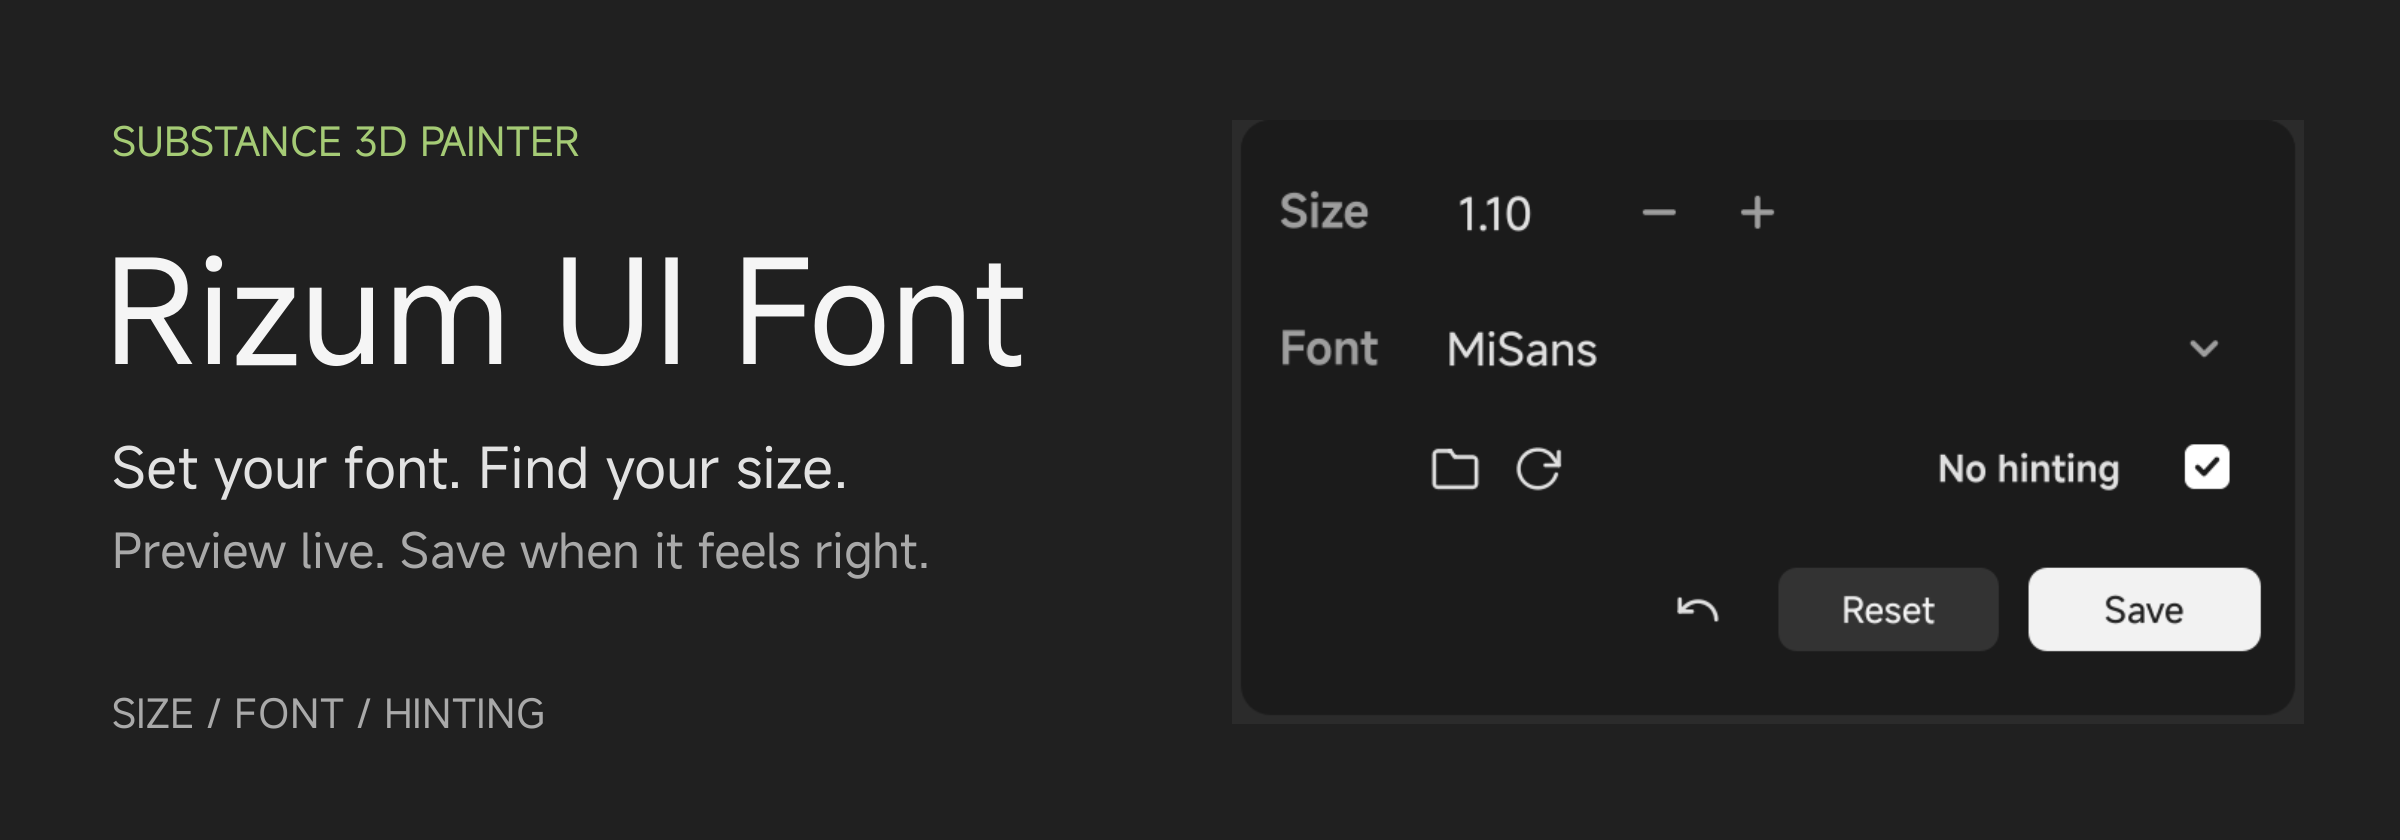
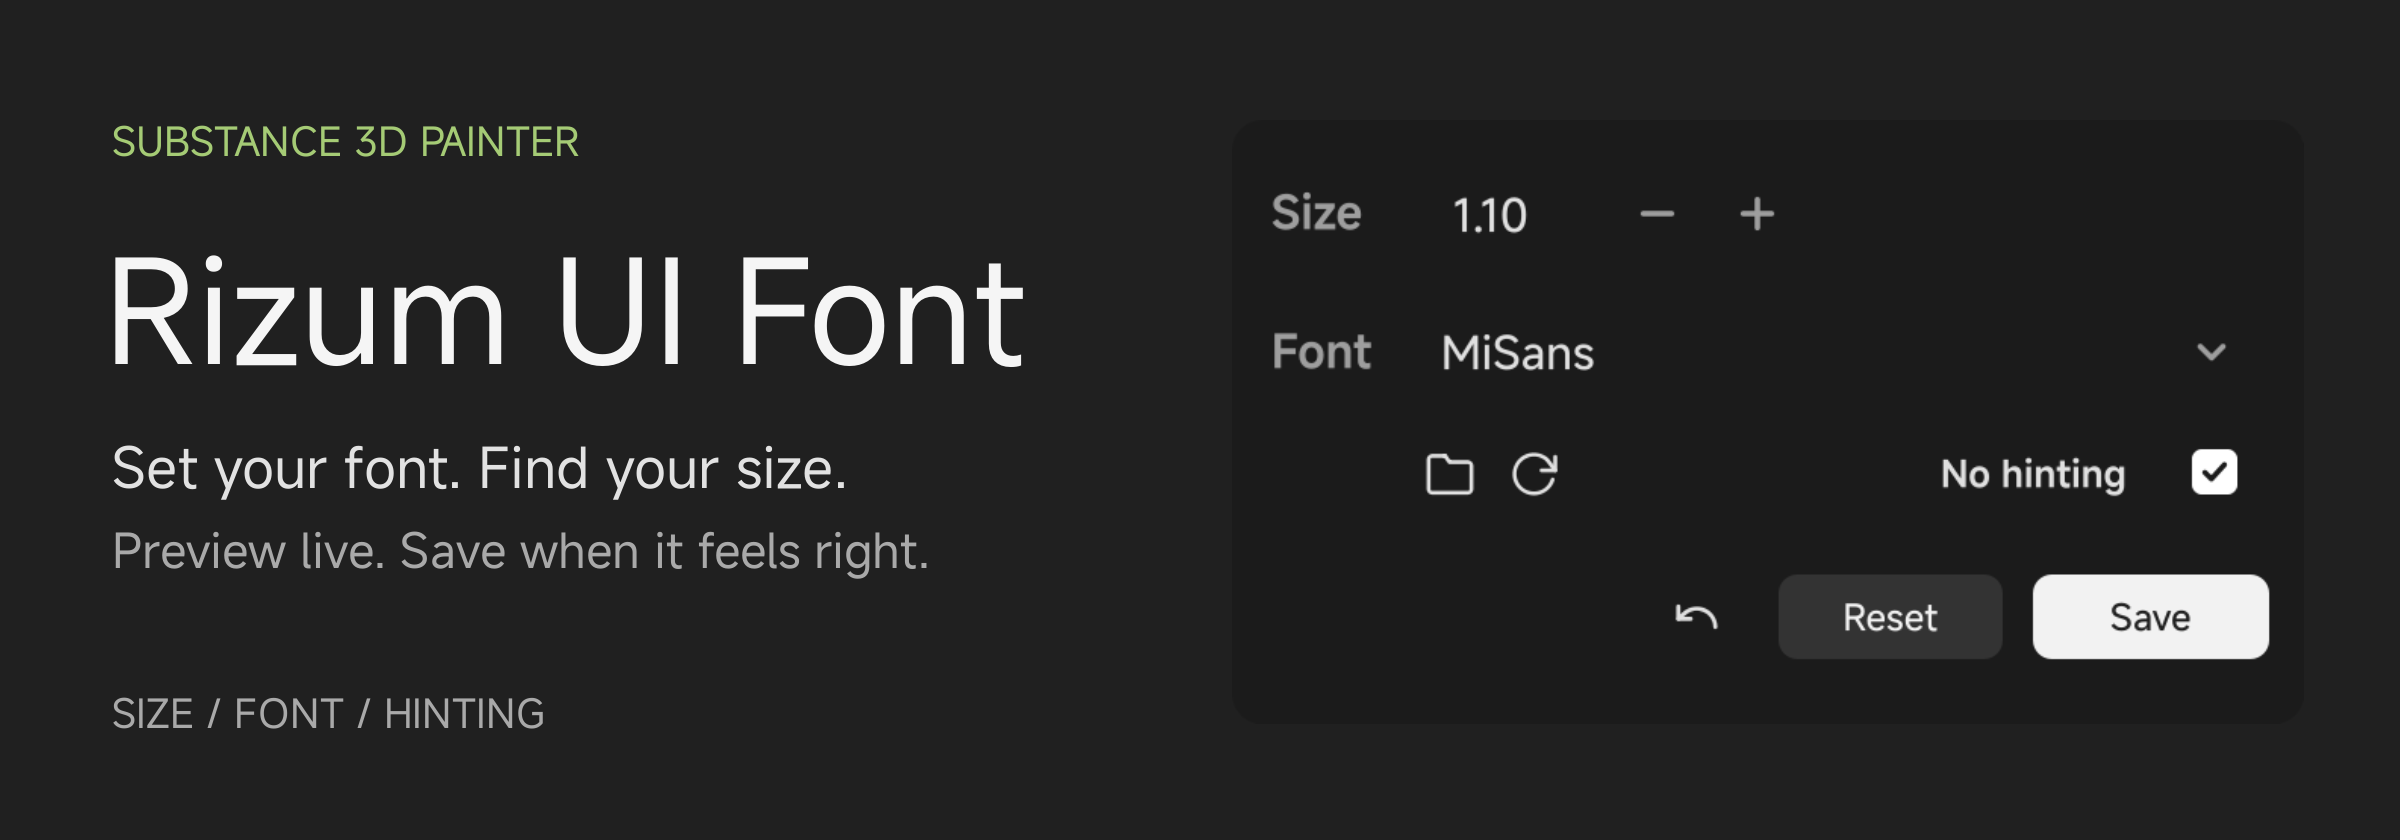
docs: trim panel capture to its transparent rounded edges

diff --git a/assets/readme/source/render_panel.py b/assets/readme/source/render_panel.py
@@ -38,7 +38,23 @@ def main():
         panel.widget.show()
         app.processEvents()
         destination = ROOT / "assets" / "readme" / "panel.png"
-        if not panel.widget.grab().save(str(destination)):
+        card = panel._card_layout.parentWidget()
+        ratio = card.devicePixelRatioF()
+        capture = QtGui.QImage(
+            round(card.width() * ratio), round(card.height() * ratio),
+            QtGui.QImage.Format.Format_ARGB32_Premultiplied,
+        )
+        capture.setDevicePixelRatio(ratio)
+        capture.fill(QtCore.Qt.GlobalColor.transparent)
+        painter = QtGui.QPainter(capture)
+        painter.setRenderHint(QtGui.QPainter.RenderHint.Antialiasing)
+        mask = QtGui.QPainterPath()
+        radius = panel.ui.components.COMPACT_DOCK_CARD_RADIUS
+        mask.addRoundedRect(QtCore.QRectF(card.rect()), radius, radius)
+        painter.setClipPath(mask)
+        card.render(painter, QtCore.QPoint())
+        painter.end()
+        if not capture.save(str(destination)):
             raise RuntimeError("Could not save panel capture")
         print(f"Captured actual panel: {destination}")
         panel.close()
